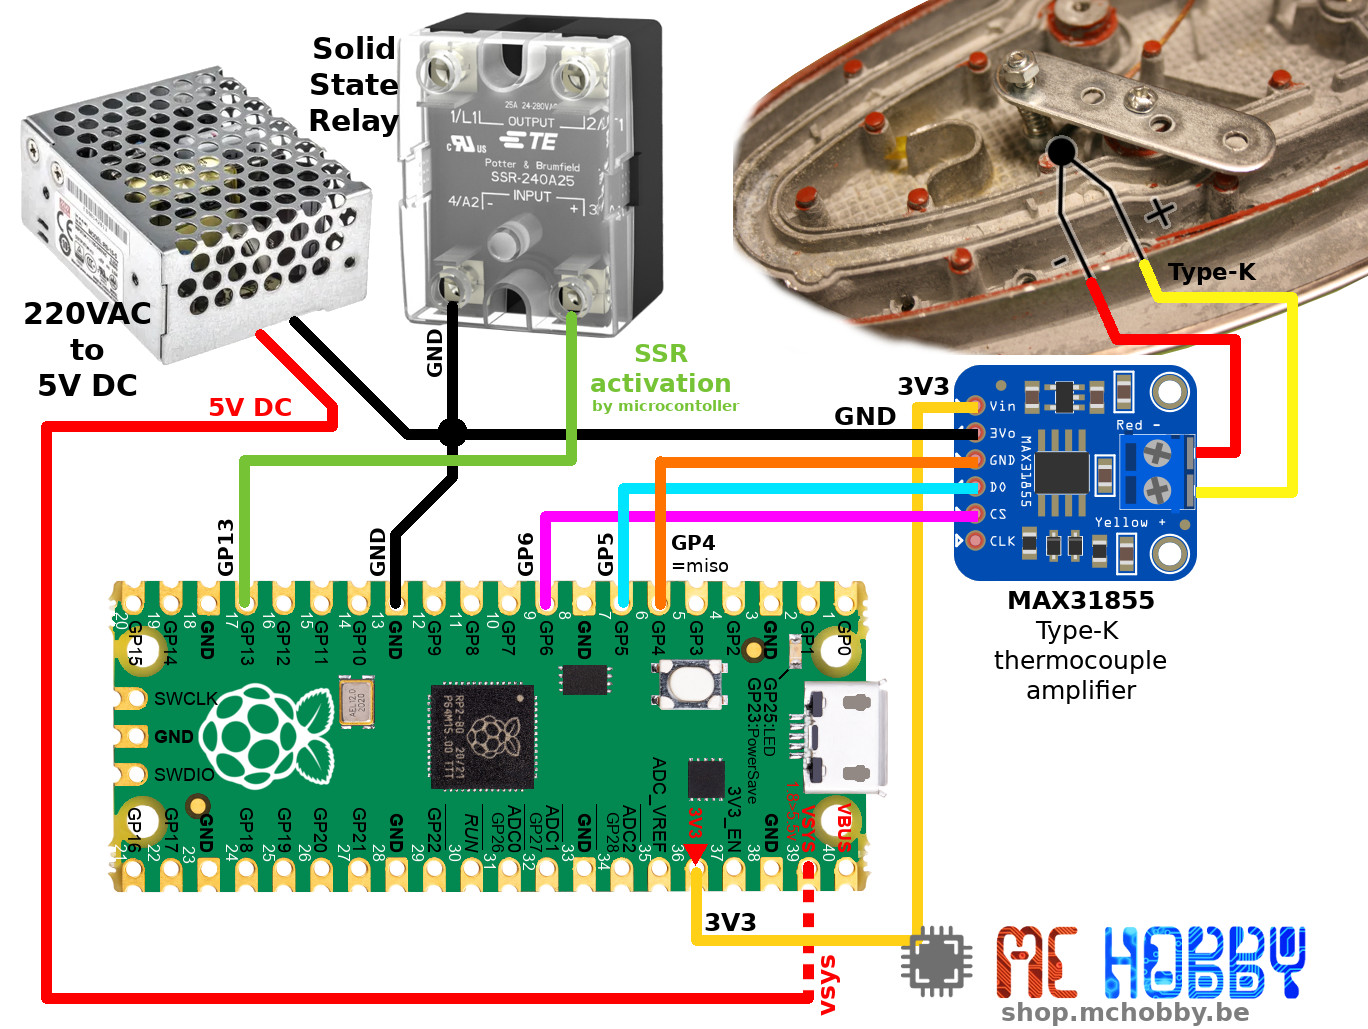
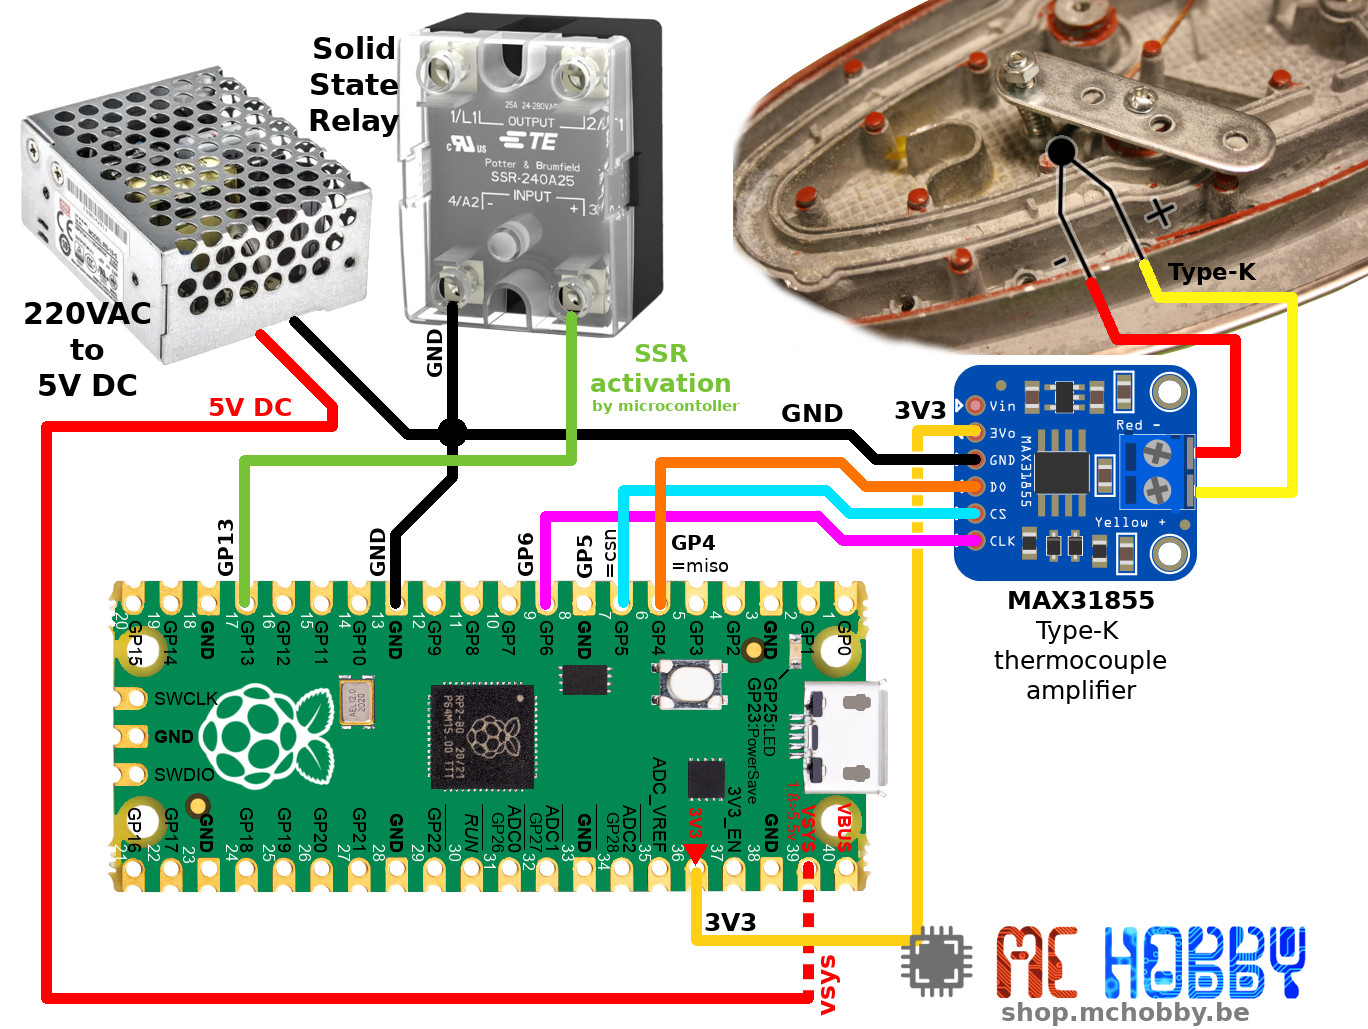
User Interface + Cooling + Pre-Heating

Changed region(s): [[0.4912, 0.3732, 0.7368, 0.5287], [0.3991, 0.4976, 0.4605, 0.5598]]

diff --git a/lib/plancha.py b/lib/plancha.py
@@ -1,0 +1,159 @@
+# Access to all the components
+#
+from machine import Pin, SPI, I2C, reset
+from lcdi2c import LCDI2C
+from lfpwm import LowFreqPWM
+from pid import PID
+from max31855 import MAX31855
+from i2cenc import I2CEncoder
+import time
+
+class Plancha():
+	""" Class for the Plancha-CMS """
+	def __init__(self):
+		self._run_app = Pin( Pin.board.GP3, Pin.IN, Pin.PULL_UP )
+		self.heater   = Pin( Pin.board.GP13, Pin.OUT, value=False )
+		self.cooling  = Pin( Pin.board.GP19, Pin.OUT, value=False )
+		self.critical_temp = 270 # will stop PID and reset board if reached!
+
+		# --- Buses ---
+		# SPI(0)
+		self._spi_cs  = Pin( Pin.board.GP5, Pin.OUT, value=True ) # SPI CSn
+		self._spi = SPI(0, mosi=Pin.board.GP7, miso=Pin.board.GP4, sck=Pin.board.GP6, baudrate=5000000, polarity=0, phase=0)
+		# I2C(0)
+		self._i2c = I2C( 0, sda=Pin.board.GP8, scl=Pin.board.GP9 )
+
+		# --- Components ---
+		# Thermocouple
+		self.tmc = MAX31855( spi=self._spi, cs_pin=self._spi_cs )
+		# LCD & encoder
+		self.lcd = LCDI2C( self._i2c, cols=16, rows=2 )
+		self.enc = I2CEncoder(self._i2c)
+		# Low Frequency PWM for SSR relay
+		self._pwm = LowFreqPWM( pin=self.heater, period=1.5, ton_ms=9, toff_ms=10 ) # period=1.5s, needs 9ms to get activated, 10ms to get it off
+		self._pid = None
+		self._pid_start = time.time() # Last change of PID setpoint()
+
+
+		# --- Initialize ---
+		# lcd
+		self.lcd.backlight()
+		self.lcd.clear()
+		self.lcd.print( "Plancha CMS", (2,0) )
+		self.lcd.print( "temp: %3i C" % self.tmc.temperature(), (0,1) )
+		# encoder
+		self.enc.color = (0,255,0) # Rouge
+
+
+	def setup_pid( self, Kp, Ki, Kd ):
+		def measure_temp(): # PID callbacks
+			_t = self.tmc.temperature()
+			if (self._pid != None) and (self._pid.setpoint>0):
+				print( "%i, %i, %i" % (time.time()-self._pid_start, self._pid.setpoint, _t) ) # DeltaTime_since_temps_set, temp_setpoint, current_temps
+			if _t >= self.critical_temp:
+				self._pid.stop()  # Make it rebooting!
+				self.heater.off()
+				print( 'Reset board now!' )
+				reset()
+			return _t
+		def output_pwm(value):
+			return self._pwm.duty_ratio( int(value) )
+		self._pid = PID(Kp=Kp, Ki=Ki, Kd=Kd, dt=1000, setpoint=100, measure_func=measure_temp, output_func=output_pwm, output_min=0, output_max=100)
+		self._pid.stop()
+
+	@property
+	def run_app(self):
+		""" Check the Run App """
+		return self._run_app.value()==False
+
+	@property
+	def temperature( self ):
+		return self.tmc.temperature()
+
+	@temperature.setter
+	def temperature( self, value ):
+		# Initialize the PID destination
+		if self._pid == None:
+			raise Exception( "setup_pid() must be called first.")
+		self._pid.set( value )# A Zero value will stop the PID
+		self._pid_start = time.time()
+
+	def stop( self ):
+		""" Stop Any PID running and controling the Heater """
+		if self._pid == None:
+			raise Exception( "setup_pid() must be called first.")
+		self._pid.stop() # Will set PID the setpoint to 0
+		self._pid_start = time.time()
+		self.heater.off() # Be sure we did stop it!
+
+	def menu_select( self, options, clear=True ):
+		""" options are [ (code,label,(x,y)) ]	"""
+		if clear:
+			self.lcd.clear()
+		iPos = 0
+		for key, label, xy_pos in options:
+			if iPos != 0:
+				label = label.replace('[',' ').replace(']',' ')
+			self.lcd.print( label, xy_pos )
+			iPos += 1
+
+		idx = 0 # Current position in the menu
+		curr_enc = self.enc.position
+		while True:
+			if self.enc.button:
+				return options[idx][0] # return the Key
+			if self.enc.position == curr_enc:
+				continue
+			_dir = 1 if self.enc.position > curr_enc else -1 
+			# clear current label
+			self.lcd.print( options[idx][1].replace('[',' ').replace(']',' '), options[idx][2] )
+			idx = idx + _dir 
+			# limit the new value
+			if idx > len(options)-1:
+				idx = 0
+			elif idx < 0:
+				idx = len(options)-1
+			# select new label
+			self.lcd.print( options[idx][1], options[idx][2] )
+			time.sleep_ms( 100 )
+			curr_enc = self.enc.position
+
+
+	def int_select( self, label, format_str, value, imin=0, imax=250, istep=5 ):
+		""" options are [ (code,label,(x,y)) ]	"""
+		self.lcd.clear()
+		self.lcd.print( label, (0,0) )
+		self.lcd.print( format_str % value, (0,1) )
+
+		# Wait release of the button
+		while self.enc.button:
+			pass
+
+		curr_enc = self.enc.position
+		while True:
+			if self.enc.button:
+				return value # return the Key
+			if self.enc.position == curr_enc:
+				continue
+			_dir = 1 if self.enc.position > curr_enc else -1 
+			# Write the new value
+			value = value + _dir*istep
+			# limit the new value
+			if value >= imax:
+				value = imax
+			if value <= imin:
+				value = imin
+			# Print the new value
+			self.lcd.print( format_str % value, (0,1) )
+			time.sleep_ms( 100 )
+			curr_enc = self.enc.position
+
+	def confirm_select( self, label ):
+		""" Response True/False """
+		self.lcd.clear()
+		self.lcd.print( label[:15], (0,0) )
+		# Wait release of the button
+		while self.enc.button:
+			pass
+		# Request confirmation
+		return self.menu_select( [(True,'[Yes]',(0,1)), (False,'[No]',(12,1)) ], clear=False )

diff --git a/main.py b/main.py
@@ -1,0 +1,132 @@
+from plancha import Plancha
+import time
+
+COOLING_MIN_T = 35 # Cooling stops under 35°C
+CRITICAL_T = 380 # Heating MUST STOP & booard resets
+
+PROFILE_SN0 = [(150,90),(180,90),(245,45)] # (target Temp, time (in sec) to reach the temperature)
+PROFILE_SUBSTEP_SEC = 5 # We make a temperature update every x second
+
+class App:
+	def __init__( self ):
+		self.p = Plancha()
+		self.p.setup_pid( Kp=1.95, Ki=0.0125, Kd=4.5 )
+		self.p.critical_temp = CRITICAL_T # PID will raise exception at 270°
+
+	def smart_sleep_ms( self, ms ):
+		""" Wait for given time or the encoder button pressed """
+		_start = time.ticks_ms()
+		while time.ticks_diff( time.ticks_ms(), _start )<ms:
+			if self.p.enc.button:
+				break
+			time.sleep_ms( 50 )
+
+	def profile_heating( self, profile ):
+		""" Follow a profile heating """
+		current_temp = self.p.temperature
+		phase_start_sec = time.time()
+		phase_start_ms  = time.ticks_ms()
+		for target_temp, target_seconds in profile:
+			print( 'Profile Stage to %3i C in %i seconds' % (target_temp, target_seconds) )
+			temp_delta_per_second = (target_temp-current_temp)/target_seconds
+			# calculate temps to reach @ next_target_ms
+			sub_target_temp = current_temp + temp_delta_per_second*PROFILE_SUBSTEP_SEC
+			next_target_ms = time.ticks_add( phase_start_ms, PROFILE_SUBSTEP_SEC*1000 )
+			# activate PID
+			print( 'time %4i, PID.set=%3i' % (time.time()-phase_start_sec, int(sub_target_temp)) )
+			#self.p.temperature = int(sub_target_temp)
+			while  True:
+				if time.ticks_diff( next_target_ms, time.ticks_ms() ) < 0:
+					# It is time to calculate the next iteration value
+					sub_target_temp  += temp_delta_per_second*PROFILE_SUBSTEP_SEC
+					next_target_ms = time.ticks_add( next_target_ms, PROFILE_SUBSTEP_SEC*1000 )
+					# apply to PID
+					print( 'time %4i, PID.set=%3i' % (time.time()-phase_start_sec, int(sub_target_temp)) )
+					#self.p.temperature = int(sub_target_temp)
+				if (time.time()-phase_start_sec) > target_seconds:
+					current_temp = self.p.temperature
+					phase_start_sec = time.time()
+					phase_start_ms  = time.ticks_ms()
+					break # Lets process the next phase !
+				self.smart_sleep_ms( 100 )
+			
+
+
+
+
+	def run( self ):
+		# === Main Loop ===
+		while self.p.run_app:
+			self.p.enc.color = (0,255,0)
+			menu = self.p.menu_select( [ ('PREHEAT','[Pre-Heat]',(0,0)), ('COOL','[Cool]',(10,0)), ('SOLDER','[Solder]',(0,1))] )
+			if not(self.p.run_app):
+				break
+
+			if menu=='PREHEAT':
+				target_temp = self.p.int_select( "Pre-Heat temp?", "       %03i C", 100, imin=50, imax=250, istep=5 )
+				val = self.p.confirm_select( "Pre-heat %3i C" % target_temp )
+				# Wait button release
+				while self.p.enc.button:
+					pass
+
+				if not( val ):
+					continue # go to menu
+
+				# Pre Heating
+				self.p.lcd.clear()
+				self.p.lcd.print( "Pre-heating...", (0,0) )
+				self.p.enc.color = (255,0,0)
+				self.p.temperature = target_temp # Will start the PID
+				while True:
+					self.p.lcd.print( "temp: %3i C" % self.p.temperature, (0,1) )
+					if self.p.enc.button:
+						self.p.stop()
+						while self.p.enc.button:
+							pass
+						break
+					self.smart_sleep_ms( 500 )
+				# Cooling (with automatic stop)
+				self.p.lcd.clear()
+				self.p.lcd.print( "Cooling...", (0,0) )
+				self.p.enc.color = (0,0,255)
+				self.p.cooling.on()
+				while True:
+					_t = self.p.temperature
+					self.p.lcd.print( "temp: %3i C" % _t, (0,1) )
+					if self.p.enc.button or (_t<COOLING_MIN_T ):
+						while self.p.enc.button:
+							pass
+						self.p.cooling.off()
+						break;
+					self.smart_sleep_ms( 500 )
+
+
+			elif menu=='COOL':
+				# Cooling (NO automatic stop)
+				self.p.lcd.clear()
+				self.p.lcd.print( "Cooling...", (0,0) )
+				self.p.enc.color = (0,0,255)
+				self.p.cooling.on()
+				# wait release
+				while self.p.enc.button:
+					pass
+				while True:
+					_t = self.p.temperature
+					self.p.lcd.print( "temp: %3i C" % _t, (0,1) )
+					if self.p.enc.button:
+						while self.p.enc.button:
+							pass
+						self.p.cooling.off()
+						break;
+					self.smart_sleep_ms( 500 )
+				
+
+			elif menu=='SOLDER':
+				self.profile_heating( PROFILE_SN0 )
+
+if __name__ == '__main__':
+	app = App()
+	try:
+		app.run()
+	finally:
+		app.p.enc.color = (0,0,0)

diff --git a/examples/test_encoder.py b/examples/test_encoder.py
@@ -1,0 +1,29 @@
+from machine import Pin, I2C
+from i2cenc import I2CEncoder
+from time import sleep
+
+i2c = I2C( 0, sda=Pin.board.GP8, scl=Pin.board.GP9, freq = 100000 )
+print( i2c.scan())
+
+enc = I2CEncoder(i2c)
+
+print( "Testing the LEDs" )
+enc.color = (255,0,0) # Rouge
+sleep( 0.5 )
+enc.color = (0,255,0) # Vert
+sleep( 0.5 )
+enc.color = (0,0,255) # Bleu
+sleep( 1 )
+#enc.color = (0,0,0) # Eteint
+
+last_v = 0
+while True:
+	if enc.button: # Est-ce que le bouton est actuellement pressé ?
+		print( 'Button PRESSE')
+		enc.position = 0 # Réinitialiser le comtpeur - ne fonctionne pas!
+
+	v = enc.position # -32768 <= v <= 32767
+	if v != last_v: # afficher uniquement si valeur changée
+		print( v )
+		last_v = v
+	sleep( 0.05 )

diff --git a/examples/test_ramp.py b/examples/test_ramp.py
@@ -24,7 +24,7 @@ if uname().sysname == 'rp2': # RaspberryPi Pico
 	heater = Pin(13)
 	print( 'Attaching SPI to SPI(0) : GP5=CSn, GP4=Miso, GP6=Sck, GP7=Mosi')
 	cs = Pin(5, Pin.OUT, value=True ) # SPI CSn
-	spi = SPI(0, baudrate=5000000, polarity=0, phase=0)
+	spi = SPI(0, mosi=Pin.board.GP7, miso=Pin.board.GP4, sck=Pin.board.GP6, baudrate=5000000, polarity=0, phase=0)
 else:
 	raise Exception( 'Oups! plateform %s not supported' % uname().sysname )
 
@@ -66,3 +66,5 @@ def start_ramp( ratio, cuttoff_temp=CUTOFF_TEMP ): # from 0 to 100%
 		print('Stopping...')
 		stop()
 		raise
+
+start_ramp( 25 )

diff --git a/examples/test_pid.py b/examples/test_pid.py
@@ -23,7 +23,7 @@ if uname().sysname == 'rp2': # RaspberryPi Pico
 	heater = Pin(13)
 	print( 'Attaching SPI to SPI(0) : GP5=CSn, GP4=Miso, GP6=Sck, GP7=Mosi')
 	cs = Pin(5, Pin.OUT, value=True ) # SPI CSn
-	spi = SPI(0, baudrate=5000000, polarity=0, phase=0)
+	spi = SPI(0, mosi=Pin.board.GP7, miso=Pin.board.GP4, sck=Pin.board.GP6, baudrate=5000000, polarity=0, phase=0)
 else:
 	raise Exception( 'Oups! plateform %s not supported' % uname().sysname )
 

diff --git a/examples/test_cooling.py b/examples/test_cooling.py
@@ -22,11 +22,14 @@ else:
 
 # Setup MAX31855 : thermocouple reader
 tmc = MAX31855( spi=spi, cs_pin= cs )
-
+cooler = Pin( Pin.board.GP19, Pin.OUT, value=False )
+cooler.on()
 
 start = time.time()
 while True:
 	elapsed = time.time() - start # In seconds
 	temp = tmc.temperature()
 	print( elapsed, ",", temp )
+	if temp<50:
+		cooler.off()
 	time.sleep(1)

diff --git a/examples/test_lcd.py b/examples/test_lcd.py
@@ -1,0 +1,10 @@
+from machine import Pin, I2C
+from lcdi2c import LCDI2C
+
+i2c = I2C( 0, sda=Pin.board.GP8, scl=Pin.board.GP9, freq=100000 )
+lcd = LCDI2C( i2c, cols=16, rows=2 )
+lcd.backlight()
+lcd.clear()
+lcd.print( "hello" )
+lcd.print( '^', pos=(8,0) )
+lcd.print( '>', pos=(9,1) )

diff --git a/examples/test_runapp.py b/examples/test_runapp.py
@@ -1,0 +1,8 @@
+from machine import Pin
+
+
+p = Pin( Pin.board.GP3, Pin.IN, Pin.PULL_UP )
+if p.value()==False:
+	print( "Run_app = RUN" )
+else:
+	print( "Run_app = STOP" )

diff --git a/boot.py b/boot.py
@@ -1,0 +1,5 @@
+from machine import Pin
+# Make sure that SSR Relay is off when restarting
+Pin(13, Pin.OUT, value=False)
+# Stop Cooling
+Pin(19, Pin.OUT, value=False)
